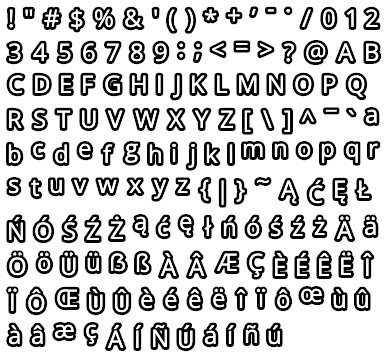
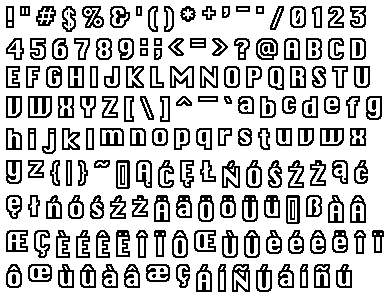
fonts

diff --git a/Samples/SampleGame.NET/Game/UI/Styles/ButtonStyles.cs b/Samples/SampleGame.NET/Game/UI/Styles/ButtonStyles.cs
@@ -24,6 +24,14 @@ public static class ButtonStyles
             Pushed = RgbaColor.Orange,
             Disabled = new(0xff494949)
         };
+        button.TextOutlineColors = new ButtonStateColors
+        {
+            Normal = RgbaColor.Black,
+            Hover = RgbaColor.Black,
+            Focused = RgbaColor.Black,
+            Pushed = RgbaColor.Black,
+            Disabled = new(0xff494949)
+        };
         button.BackgroundColors = new ButtonStateColors
         {
             Normal = RgbaColor.FromNonPremultiplied(255,255,255,20),

diff --git a/Samples/SampleGame.NET/Game/UI/Pages/MainPage.cs b/Samples/SampleGame.NET/Game/UI/Pages/MainPage.cs
@@ -56,7 +56,6 @@ public class MainPage: PageBase<MainPageViewModel>
                 {
                     Padding = (8, 8),
                     Spacing = 8,
-                    BackgroundColor = RgbaColor.Brown,
                     VerticalAlign = Align.Center,
                     HorizontalAlign = Align.End,
                     Width = "256",